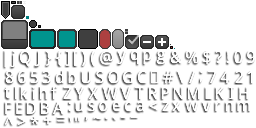
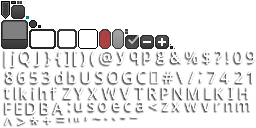
feat: change the settings screen so scale and layout is propper

Changed region(s): [[0.0938, 0.2188, 0.4062, 0.375]]

diff --git a/src/main/java/inf112/zoombiegeddon/view/screens/SettingsScreen.java b/src/main/java/inf112/zoombiegeddon/view/screens/SettingsScreen.java
@@ -6,7 +6,10 @@ import com.badlogic.gdx.graphics.Color;
 import com.badlogic.gdx.graphics.Texture;
 import com.badlogic.gdx.scenes.scene2d.Actor;
 import com.badlogic.gdx.scenes.scene2d.ui.CheckBox;
+import com.badlogic.gdx.scenes.scene2d.ui.Label;
+import com.badlogic.gdx.scenes.scene2d.ui.SelectBox;
 import com.badlogic.gdx.scenes.scene2d.ui.Slider;
+import com.badlogic.gdx.scenes.scene2d.ui.Table;
 import com.badlogic.gdx.scenes.scene2d.utils.ChangeListener;
 import com.badlogic.gdx.scenes.scene2d.utils.TextureRegionDrawable;
 import inf112.zoombiegeddon.app.AssetConstants;
@@ -35,74 +38,63 @@ public class SettingsScreen extends AbstractScreen {
     @Override
     public void buildScreen() {
         clearTable();
-
         app.audio.playMusic(MusicTrack.MENU, true);
 
-        if (app.manager.isLoaded(AssetConstants.BG_GAME)) {
-            Texture background = app.manager.get(AssetConstants.BG_GAME, Texture.class);
-            table.setBackground(new TextureRegionDrawable(background));
-        }
+        table.defaults().pad(4f);
         formatText("SETTINGS", Color.WHITE, 2f);
-        table.row().pad(20);
+        table.row().padTop(18f);
 
+        float contentWidth = Math.max(buttonWidth * 1.5f, Gdx.graphics.getWidth() * 0.45f);
+
+        Table contentTable = new Table();
+        contentTable.defaults().left().pad(4f);
+
+
+        // --- DISPLAY SECTION ---
+        Table displaySection = createSectionTable();
+        addSectionTitle(displaySection, "Display");
 
         String[] resolutions = {"1280 x 720", "1366 x 768", "1600 x 900", "1920 x 1080", "2560 x 1440", "3840 x 2160"};
-
-
         String savedRes = app.prefs.getString(AssetConstants.PREF_RES_STRING, resolutions[0]);
 
+        UIUtils.addSelectBox("Resolution", resolutions, app.skin, displaySection,
+                buttonWidth, buttonHeight, this::changeResolution);
 
-        UIUtils.addSelectBox("Resolutions:", resolutions, app.skin, table, buttonWidth, buttonHeight, this::changeResolution)
-                .setSelected(savedRes);
+        UIUtils.addCheckBox("Fullscreen", app.skin, displaySection,
+                app.prefs.getBoolean(AssetConstants.PREF_FULLSCREEN, false), this::setFullscreen);
 
-        table.row().padTop(20);
+        // --- AUDIO SECTION ---
+        Table audioSection = createSectionTable();
+        addSectionTitle(audioSection, "Audio");
 
-        CheckBox fullscreenCheckBox = new CheckBox(" Fullscreen", app.skin);
-        fullscreenCheckBox.setChecked(app.prefs.getBoolean(AssetConstants.PREF_FULLSCREEN, false));
-        fullscreenCheckBox.addListener(new ChangeListener() {
-            @Override
-            public void changed(ChangeEvent event, Actor actor) {
-                setFullscreen(fullscreenCheckBox.isChecked());
-            }
-        });
-        table.add(fullscreenCheckBox).left().row();
+        UIUtils.addSlider("Music Volume", app.skin, audioSection,
+                app.audio.getMusicVolume(), 0f, 1f, 0.01f, app.audio::setMusicVolume);
 
-        table.row().padTop(50);
+        UIUtils.addSlider("SFX Volume", app.skin, audioSection,
+                app.audio.getSfxVolume(), 0f, 1f, 0.01f, app.audio::setSfxVolume);
 
-        formatText("Music Volume", Color.WHITE, 1.2f);
+        // --- ASSEMBLE ---
+        contentTable.add(displaySection).growX().row();
+        contentTable.row().padTop(20f);
+        contentTable.add(audioSection).growX().row();
 
-        Slider musicSlider = new Slider(0f, 1f, 0.01f, false, app.skin);
-        musicSlider.setValue(app.audio.getMusicVolume());
-
-        musicSlider.addListener(new ChangeListener() {
-            @Override
-            public void changed(ChangeEvent event, Actor actor) {
-                app.audio.setMusicVolume(musicSlider.getValue());
-            }
-        });
-
-        table.add(musicSlider).width(buttonWidth).row();
-        table.row().padTop(30);
-
-        table.row().padTop(30);
-
-        formatText("SFX Volume", Color.WHITE, 1.2f);
-
-        Slider sfxSlider = new Slider(0f, 1f, 0.01f, false, app.skin);
-        sfxSlider.setValue(app.audio.getSfxVolume());
-
-        sfxSlider.addListener(new ChangeListener() {
-            @Override
-            public void changed(ChangeEvent event, Actor actor) {
-                app.audio.setSfxVolume(sfxSlider.getValue());
-            }
-        });
-
-        table.add(sfxSlider).width(buttonWidth).row();
-        table.row().padTop(30);
+        table.add(contentTable).width(contentWidth).expand().center().row();
 
         UIUtils.addButton("BACK", app.skin, table, buttonWidth, buttonHeight,
                 () -> app.setScreen(returnScreen));
+    }
+
+    private Table createSectionTable() {
+        Table section = new Table();
+        section.defaults().left().fillX().pad(4f);
+        return section;
+    }
+
+    private void addSectionTitle(Table section, String title) {
+        Label.LabelStyle style = new Label.LabelStyle(app.font, Color.WHITE);
+        Label sectionTitle = new Label(title, style);
+        sectionTitle.setFontScale(1.6f * (Gdx.graphics.getHeight() / 1080f));
+        section.add(sectionTitle).colspan(2).left().padTop(2f).padBottom(15f).row();
     }
 
     /**
@@ -123,13 +115,14 @@ public class SettingsScreen extends AbstractScreen {
 
             if (!app.prefs.getBoolean(AssetConstants.PREF_FULLSCREEN, false)) {
                 Gdx.graphics.setWindowedMode(width, height);
+
                 stage.getViewport().update(width, height, true);
+
+                table.setFillParent(true);
+                table.invalidateHierarchy();
             }
-
-            table.invalidateHierarchy();
-
         } catch (Exception e) {
-            Gdx.app.error("Settings", "Kunne ikke endre oppløsning: " + resolution);
+            Gdx.app.error("Settings", "Resolution change failed: " + resolution);
         }
     }
 

diff --git a/src/main/java/inf112/zoombiegeddon/utils/UIUtils.java b/src/main/java/inf112/zoombiegeddon/utils/UIUtils.java
@@ -48,8 +48,41 @@ public class UIUtils {
             }
         });
 
-        table.add(label).padRight(10);
-        table.add(selectBox).size(width, height).row();
+        table.add(label).width(150f).left();
+        table.add(selectBox).size(width, height).growX().row();
         return selectBox;
+    }
+    public static CheckBox addCheckBox(String name, Skin skin, Table table, boolean checked, java.util.function.Consumer<Boolean> action) {
+        Label label = new Label(name, skin);
+        CheckBox checkBox = new CheckBox("", skin);
+        checkBox.setChecked(checked);
+
+        checkBox.addListener(new ChangeListener() {
+            @Override
+            public void changed(ChangeEvent event, Actor actor) {
+                action.accept(checkBox.isChecked());
+            }
+        });
+
+        table.add(label).width(150f).left();
+        table.add(checkBox).left().row();
+        return checkBox;
+    }
+
+    public static Slider addSlider(String name, Skin skin, Table table, float value, float min, float max, float step, java.util.function.Consumer<Float> action) {
+        Label label = new Label(name, skin);
+        Slider slider = new Slider(min, max, step, false, skin);
+        slider.setValue(value);
+
+        slider.addListener(new ChangeListener() {
+            @Override
+            public void changed(ChangeEvent event, Actor actor) {
+                action.accept(slider.getValue());
+            }
+        });
+
+        table.add(label).left().row();
+        table.add(slider).growX().height(30f).padBottom(12f).row();
+        return slider;
     }
 }

diff --git a/src/main/java/inf112/zoombiegeddon/view/screens/AbstractScreen.java b/src/main/java/inf112/zoombiegeddon/view/screens/AbstractScreen.java
@@ -66,7 +66,7 @@ public abstract class AbstractScreen implements IScreen {
     @Override
     public void render(float delta) {
         ScreenUtils.clear(Color.DARK_GRAY);
-
+        table.debug();
         stage.act(Math.min(delta, 1 / 30f));
         stage.draw();
     }

diff --git a/src/main/java/inf112/zoombiegeddon/view/screens/MainMenuScreen.java b/src/main/java/inf112/zoombiegeddon/view/screens/MainMenuScreen.java
@@ -9,7 +9,6 @@ import inf112.zoombiegeddon.app.GameApp;
 import inf112.zoombiegeddon.utils.UIUtils;
 
 import inf112.zoombiegeddon.audio.MusicTrack;
-import com.badlogic.gdx.scenes.scene2d.ui.TextField;
 
 /**
  * Represents the main menu screen of the game.
